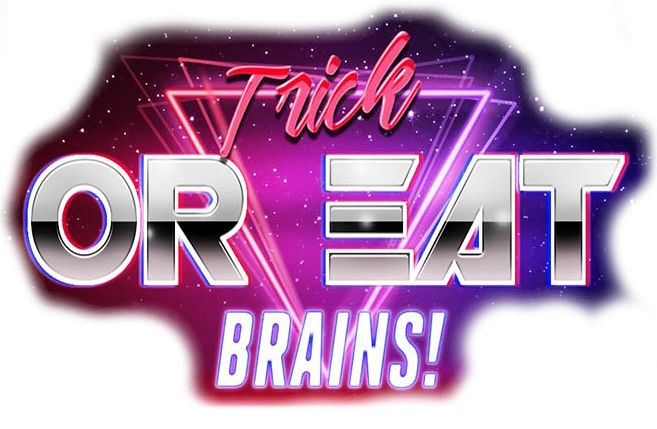
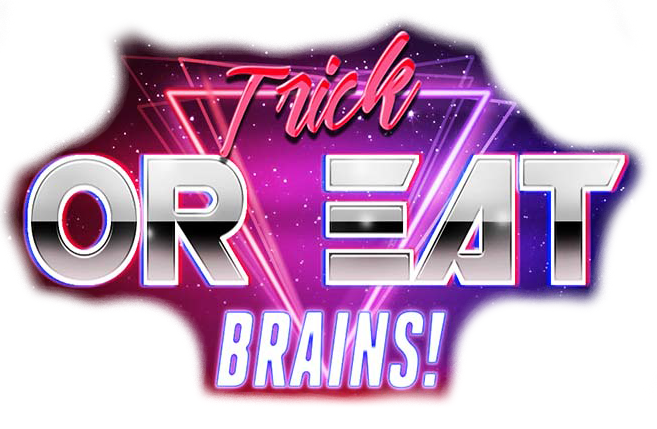
style: final style touches

Changed region(s): [[0.0, 0.0, 1.0, 0.4848], [0.0304, 0.6667, 0.5784, 0.9697], [0.6697, 0.4848, 0.9741, 0.9394]]

diff --git a/src/components/app.css b/src/components/app.css
@@ -29,13 +29,13 @@ html {
 }
 
 #main-title {
-  width: 72%;
+  width: 50%;
   text-align: center;
   margin: 0 auto 0 auto;
 }
 
 #main-start-button {
-  margin-top: -120px;
+  margin-top: 5px;
 }
 
 #title-screen {
@@ -60,6 +60,13 @@ html {
 #instructions  {
   width: 100%;
   text-align: center;
+  margin-top: 16px;
+}
+
+#instructions img {
+  border-style: solid;
+  border-width: 5px;
+  border-color: black;
 }
 
 #intro-start-button {
@@ -97,8 +104,12 @@ html {
 .activated {
   background-color: rgba(8, 201, 1, 0.836);
 }
+
+.activated:active {
+  background-color: rgba(4, 110, 0, 0.836);
+}
 .defeated {
-  background-color: rgba(105, 17, 17, 0.959);
+  background-color: rgba(44, 22, 22, 0.959);
 }
 
 .city-button:focus {
@@ -115,5 +126,6 @@ html {
 
 #stats {
   border: none;
-  background-color: rgba(0, 0, 0, 0)
+  background-color: rgba(0, 0, 0, 0);
+  color: rgba(0, 0, 0, 0.055);
 }

diff --git a/src/components/App.js b/src/components/App.js
@@ -167,7 +167,7 @@ class App extends Component {
           return (
             <div>
               <div id="main-title">
-                <img src={"./titleScreen.jpg"} alt="title-screen" id="title-screen"/>
+                <img src={"./maintitle.png"} alt="title-screen" id="title-screen"/>
                 <button onClick={() => { this.startGame() }} 
                   className="center start-button"
                   id="main-start-button">START
